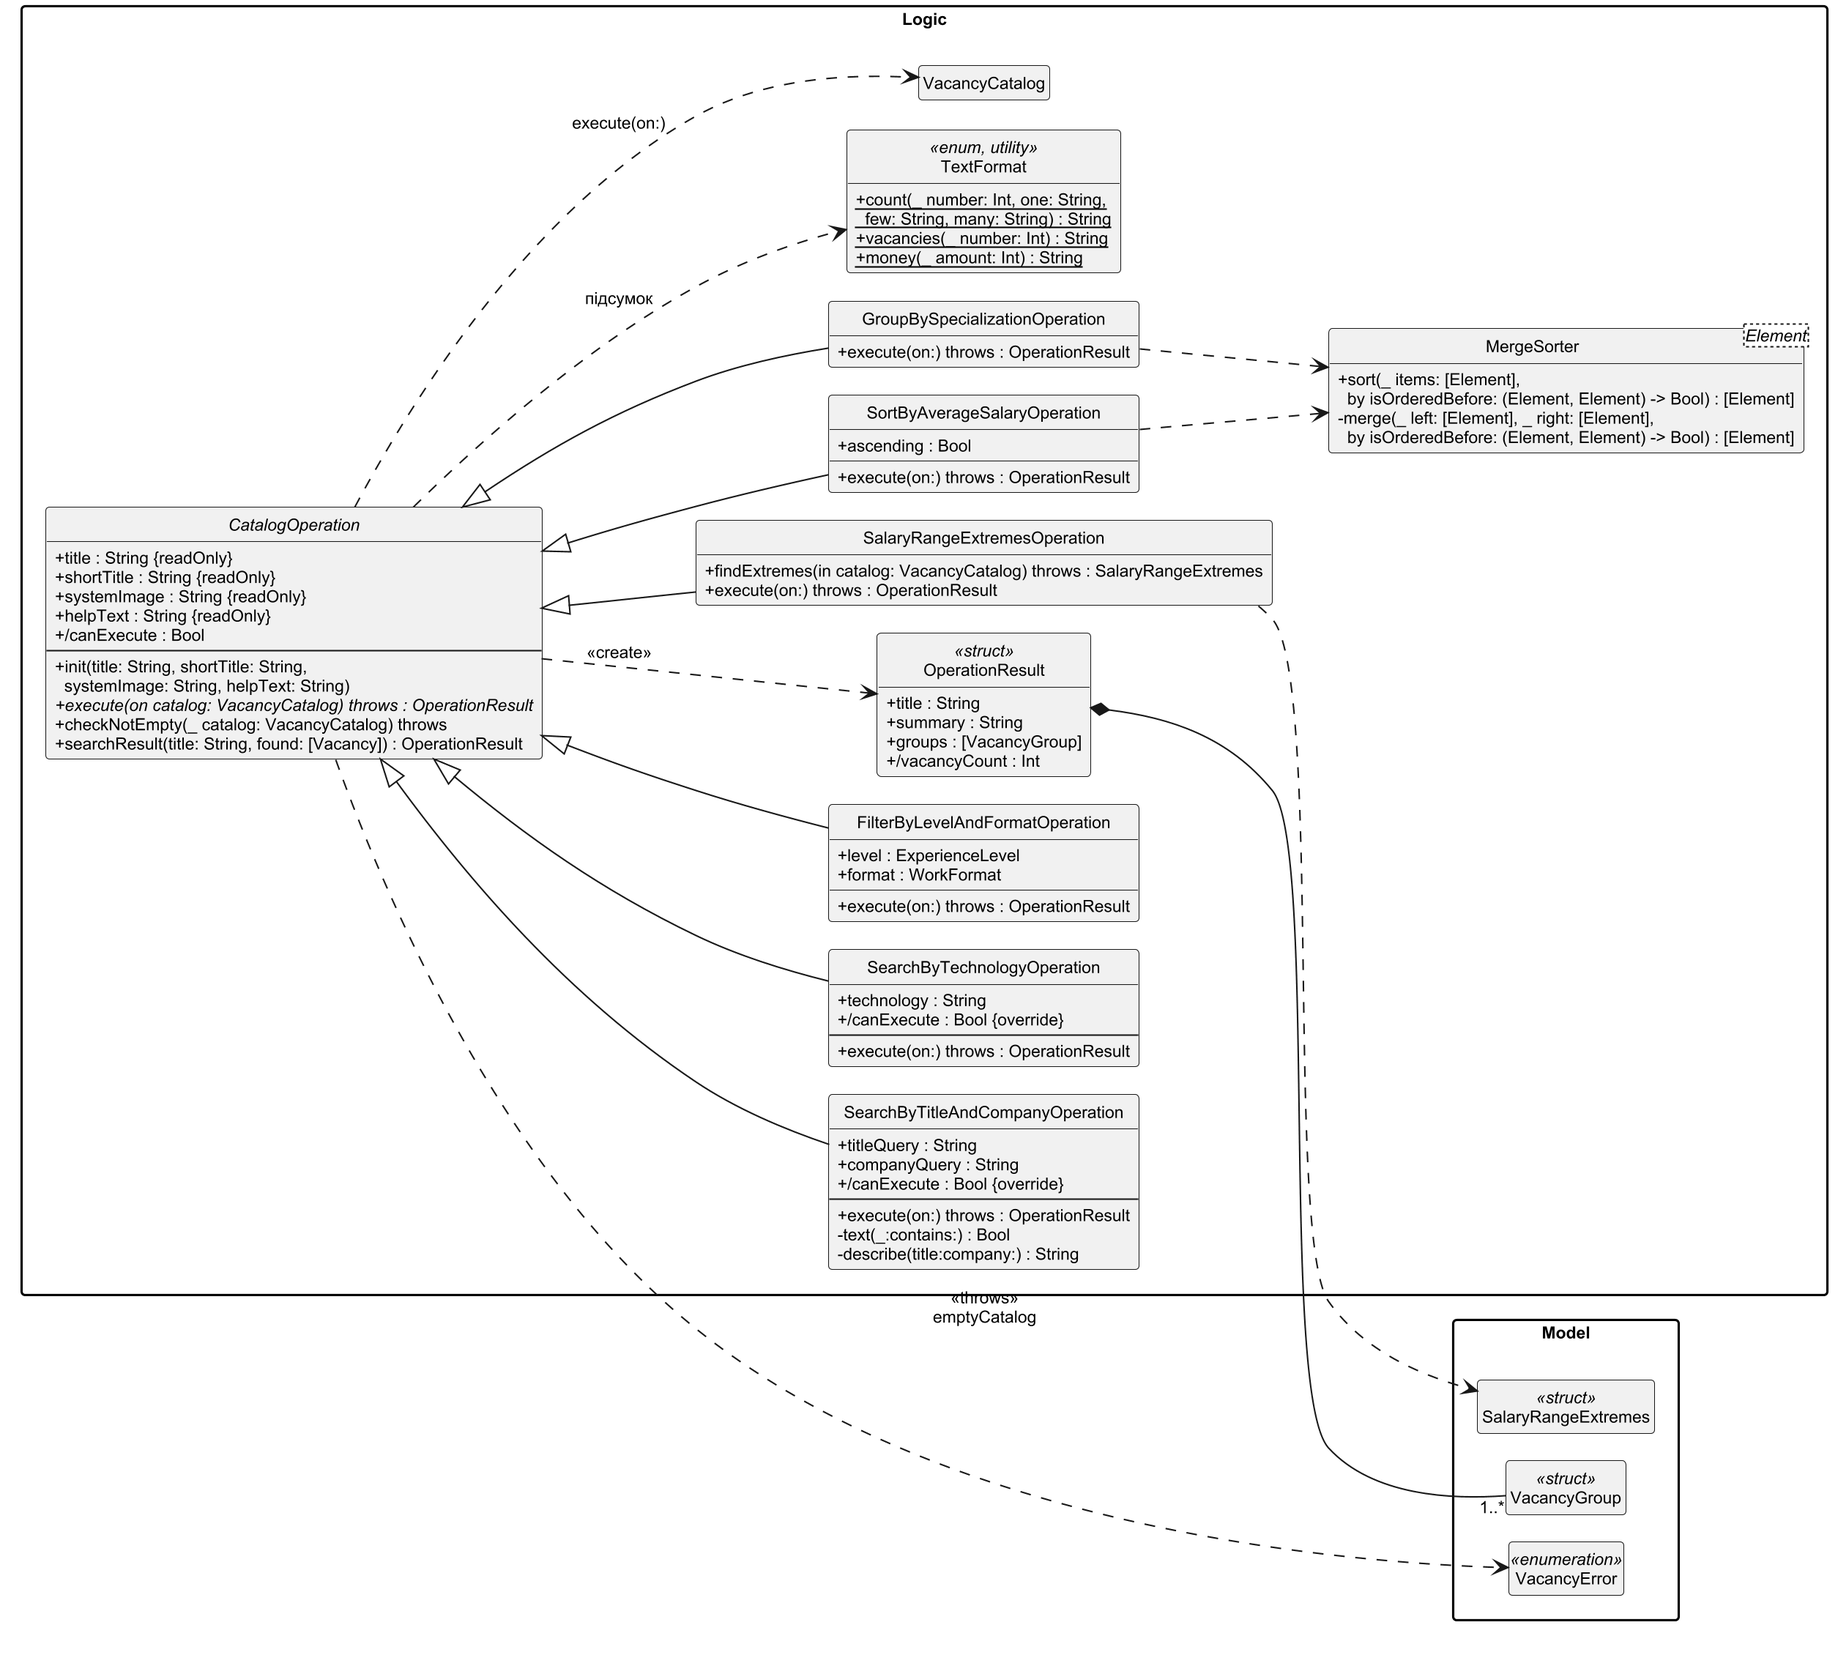
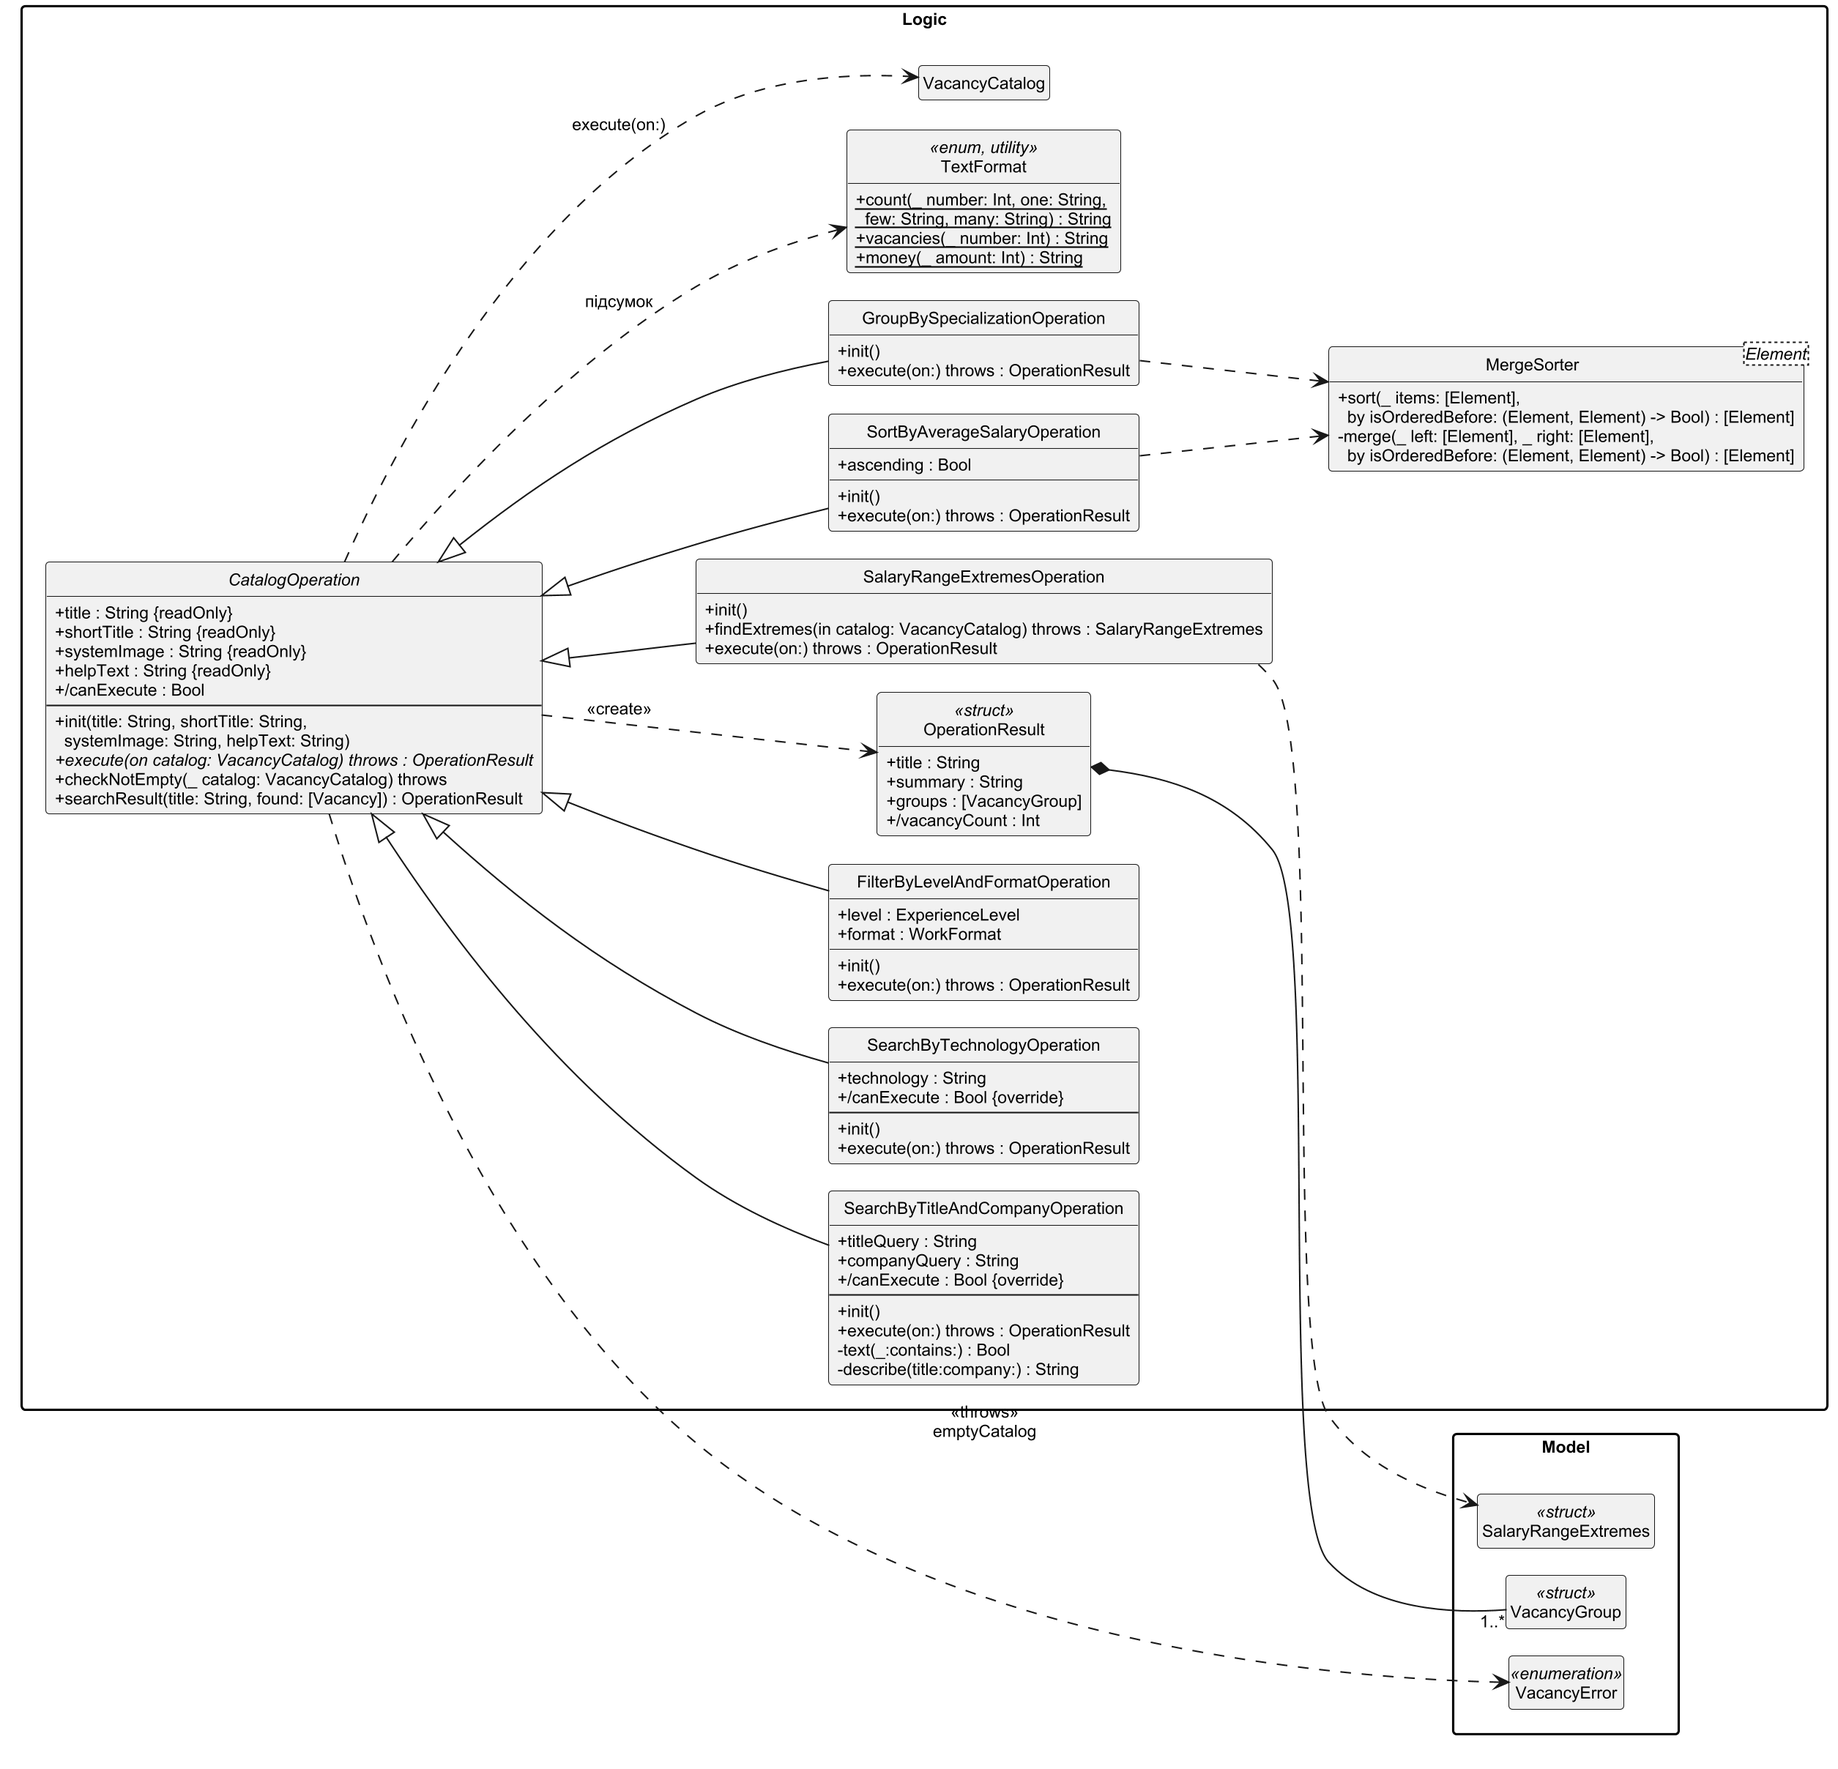
Етап 4.15: документація коду, звірка UML з кодом
Doc-коментарі для всіх типів і не приватних членів; перевірено «1 тип = 1 файл», шапки файлів і відсутність заборонених прийомів; діаграми класів звірено з кодом (21 тип, без розбіжностей); вибір будь-якої функції на порожньому каталозі одразу показує «Каталог порожній» (D-38).

diff --git a/app/VacancyCatalogTests/CatalogViewModelTests.swift b/app/VacancyCatalogTests/CatalogViewModelTests.swift
@@ -58,19 +58,21 @@ struct CatalogViewModelTests {
         #expect(viewModel.result == nil)
     }
 
-    @Test("Порожній каталог (D-38): ф.3 — алерт одразу при виборі; ф.1 — лише після «Виконати»")
-    func emptyCatalogAlertForAllFunctions() throws {
+    @Test("Порожній каталог (D-38): вибір будь-якої з 6 функцій одразу показує «Каталог порожній»",
+          arguments: [0, 1, 2, 3, 4, 5])
+    func emptyCatalogAlertForAllFunctions(index: Int) {
         let viewModel = CatalogViewModel()
-        viewModel.select(viewModel.operations[2])
+        viewModel.select(viewModel.operations[index])
         #expect(viewModel.errorAlert == VacancyError.emptyCatalog)
+        #expect(viewModel.selectedOperation === viewModel.operations[index])
+    }
 
-        viewModel.errorAlert = nil
-        viewModel.select(viewModel.operations[0])
+    @Test("Каталог не порожній: ф.1 і ф.2 при виборі чекають на введення, алерта немає")
+    func searchFunctionsWaitForInput() throws {
+        let viewModel = try makeViewModel()
+        viewModel.select(viewModel.operations[1])
         #expect(viewModel.errorAlert == nil)
-        let search = try #require(viewModel.operations[0] as? SearchByTitleAndCompanyOperation)
-        search.titleQuery = "developer"
-        viewModel.runSelectedOperation()
-        #expect(viewModel.errorAlert == VacancyError.emptyCatalog)
+        #expect(viewModel.result == nil)
     }
 
     // MARK: - Тексти вікна (Figma S-01…S-08)

diff --git a/app/VacancyCatalog/Model/ExperienceLevel.swift b/app/VacancyCatalog/Model/ExperienceLevel.swift
@@ -10,10 +10,15 @@ import Foundation
 /// `rawValue` — англійський ключ, який записується у файл (рішення D-22), `title` — назва в інтерфейсі.
 /// Рівні впорядковані: їх можна порівнювати за `order` (Intern < Junior < Middle < Senior < Lead).
 enum ExperienceLevel: String, CaseIterable, Identifiable {
+    /// Стажер — без досвіду, навчання на проєкті.
     case intern = "Intern"
+    /// Молодший спеціаліст — до 1–2 років досвіду.
     case junior = "Junior"
+    /// Спеціаліст середнього рівня — самостійно виконує задачі.
     case middle = "Middle"
+    /// Старший спеціаліст — ухвалює технічні рішення, навчає інших.
     case senior = "Senior"
+    /// Керівник команди або напряму.
     case lead = "Lead"
 
     /// Ідентифікатор для списків SwiftUI — збігається з ключем у файлі.

diff --git a/app/VacancyCatalog/Views/HelpTopic.swift b/app/VacancyCatalog/Views/HelpTopic.swift
@@ -10,11 +10,17 @@ import Foundation
 /// Текст кожного розділу — тут, а `HelpView` показує будь-який розділ однаково: заголовок, вступ,
 /// пронумеровані кроки, приклад (для формату файлу) і порада внизу.
 enum HelpTopic: String, CaseIterable, Identifiable {
+    /// «Початок роботи» — перші кроки.
     case gettingStarted
+    /// «Файли» — відкриття, збереження, помилки у файлі.
     case files
+    /// «Вакансії» — додавання, редагування, дублювання, видалення.
     case vacancies
+    /// «Функції 1–6» — що робить кожна функція.
     case functions
+    /// «Гарячі клавіші».
     case shortcuts
+    /// «Формат файлу» — правила і приклад рядка.
     case fileFormat
 
     /// Ідентифікатор для списку SwiftUI.

diff --git a/app/VacancyCatalog/ViewModel/CatalogViewModel.swift b/app/VacancyCatalog/ViewModel/CatalogViewModel.swift
@@ -222,8 +222,9 @@ class CatalogViewModel {
 
     /// Вибір функції в сайдбарі. Якщо параметри вже задані (ф.3–6), результат показується одразу;
     /// ф.1 і ф.2 спершу чекають на введення в панелі параметрів.
+    /// Порожній каталог — будь-яка функція виконується одразу, щоб відразу з'явився алерт «Каталог порожній» (D-38).
     func select(_ operation: CatalogOperation) {
-        if operation.canExecute {
+        if operation.canExecute || catalog.vacancies.isEmpty {
             run(operation)
         } else {
             selectedOperation = operation

diff --git a/app/VacancyCatalog/Model/WorkFormat.swift b/app/VacancyCatalog/Model/WorkFormat.swift
@@ -10,8 +10,11 @@ import Foundation
 /// `rawValue` — англійський ключ, який записується у файл (рішення D-22), `title` — назва в інтерфейсі,
 /// `systemImage` — назва іконки SF Symbols (див. `docs/design/icons.md`).
 enum WorkFormat: String, CaseIterable, Identifiable {
+    /// Робота в офісі компанії.
     case office = "Office"
+    /// Віддалена робота.
     case remote = "Remote"
+    /// Частково в офісі, частково віддалено.
     case hybrid = "Hybrid"
 
     /// Ідентифікатор для списків SwiftUI — збігається з ключем у файлі.

diff --git a/app/VacancyCatalog/Logic/Operations/SortByAverageSalaryOperation.swift b/app/VacancyCatalog/Logic/Operations/SortByAverageSalaryOperation.swift
@@ -16,6 +16,7 @@ class SortByAverageSalaryOperation: CatalogOperation {
     /// `true` — від меншої до більшої; `false` (за замовчуванням) — від більшої до меншої.
     var ascending = false
 
+    /// Функція 4; за замовчуванням — за спаданням (D-11). Назву, іконку й підказку передає базовому класу.
     init() {
         super.init(title: "Сортування за середньою зарплатою",
                    shortTitle: "Сортування за ЗП",

diff --git a/app/VacancyCatalog/Logic/Operations/FilterByLevelAndFormatOperation.swift b/app/VacancyCatalog/Logic/Operations/FilterByLevelAndFormatOperation.swift
@@ -17,6 +17,7 @@ class FilterByLevelAndFormatOperation: CatalogOperation {
     /// Потрібний формат роботи.
     var format = WorkFormat.remote
 
+    /// Функція 3; за замовчуванням Middle + Віддалено (як на екрані S-05). Назву, іконку й підказку передає базовому класу.
     init() {
         super.init(title: "Рівень досвіду і формат роботи",
                    shortTitle: "Рівень і формат",

diff --git a/app/VacancyCatalog/Logic/Operations/SearchByTitleAndCompanyOperation.swift b/app/VacancyCatalog/Logic/Operations/SearchByTitleAndCompanyOperation.swift
@@ -18,6 +18,7 @@ class SearchByTitleAndCompanyOperation: CatalogOperation {
     /// Текст, який має містити назва компанії.
     var companyQuery = ""
 
+    /// Функція 1 з порожніми полями посади й компанії. Назву, іконку й підказку передає базовому класу.
     init() {
         super.init(title: "Пошук за посадою і компанією",
                    shortTitle: "Посада і компанія",

diff --git a/app/VacancyCatalog/Logic/Operations/SearchByTechnologyOperation.swift b/app/VacancyCatalog/Logic/Operations/SearchByTechnologyOperation.swift
@@ -16,6 +16,7 @@ class SearchByTechnologyOperation: CatalogOperation {
     /// Назва технології, яку шукаємо.
     var technology = ""
 
+    /// Функція 2 з порожнім полем технології. Назву, іконку й підказку передає базовому класу.
     init() {
         super.init(title: "Пошук за технологією",
                    shortTitle: "Технологія",

diff --git a/app/VacancyCatalog/Logic/Operations/SalaryRangeExtremesOperation.swift b/app/VacancyCatalog/Logic/Operations/SalaryRangeExtremesOperation.swift
@@ -13,6 +13,7 @@ import Observation
 @Observable
 class SalaryRangeExtremesOperation: CatalogOperation {
 
+    /// Функція 5 (параметрів немає). Назву, іконку й підказку передає базовому класу.
     init() {
         super.init(title: "Найменший і найбільший діапазон зарплати",
                    shortTitle: "Діапазон зарплати",

diff --git a/app/VacancyCatalog/Logic/Operations/GroupBySpecializationOperation.swift b/app/VacancyCatalog/Logic/Operations/GroupBySpecializationOperation.swift
@@ -14,6 +14,7 @@ import Observation
 @Observable
 class GroupBySpecializationOperation: CatalogOperation {
 
+    /// Функція 6 (параметрів немає). Назву, іконку й підказку передає базовому класу.
     init() {
         super.init(title: "Групування за спеціалізацією",
                    shortTitle: "Групи спеціалізацій",

diff --git a/docs/analysis/04-use-cases.md b/docs/analysis/04-use-cases.md
@@ -127,7 +127,7 @@
   - A1. Нічого не знайдено → порожній стан «Нічого не знайдено» з порадою змінити параметри.
   - A2. Користувач редагує, дублює чи видаляє вакансію прямо в результатах (контекстне меню) → після зміни функція
     виконується повторно, і результат оновлюється.
-- **Виняткові ситуації:** E1. Будь-яка з функцій 1–6 на порожньому каталозі → алерт «Каталог порожній. Відкрийте файл або додайте вакансію» (D-38; ф.3–6 — одразу після вибору, ф.1–2 — після «Виконати»).
+- **Виняткові ситуації:** E1. Будь-яка з функцій 1–6 на порожньому каталозі → алерт «Каталог порожній. Відкрийте файл або додайте вакансію» (D-38; одразу після вибору функції).
 
 | Функція | Параметри | Коли «Виконати» активна | Вигляд результату |
 |---|---|---|---|
